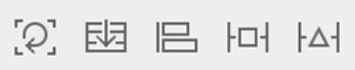
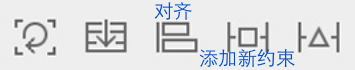
commit changes

Changed region(s): [[0.5577, 0.6857, 0.8366, 0.9714], [0.4338, 0.0286, 0.5577, 0.2857]]

diff --git a/source/_posts/2017/0721iOSProgrammingBNRG01.md b/source/_posts/2017/0721iOSProgrammingBNRG01.md
@@ -11,22 +11,36 @@ comments: true
 第一章实现该界面的问答功能，点击`Next Question`，显示一个新问题，点击`Show Answer`，显示该问题对应的答案。
 要点是：
 - 使用Interface Builder构建界面布局
+- 为控件关联代码变量和响应函数
 - 使用约束确保兼容不同的尺寸的设备
-- 为空间创建对应的变量，并为之关联消息响应函数。<!-- more -->
-
+- 修改app图标
+<!-- more -->
+---
 # 1 在story board上拖拽出界面
-注意在Main.storyboard上构造界面，别搞成LaunchScreen.storyboard了，后者是开机界面。
+注意在Main.storyboard上构造app主界面，别搞成LaunchScreen.storyboard了，后者是开机启动界面。
 
 ## 1.1 设定约束确保在不同的机型上布局一致
-与自动布局相关的按钮在Canvas的右下角：
+与自动布局相关的按钮在Canvas的右下角，本节涉及到第3、4个按钮，分别表示对齐和添加新的约束。
 ![自动布局相关按钮](0721iOSProgrammingBNRG01/img02.png)
-本节会涉及到第3、4个按钮，分别表示对齐和添加新的约束。
-对齐很容易理解：点击一个控件，再点击此按钮，勾选Horizontally in Container或Vertically in Container，可以让该控件在容器中水平或竖直方向居中
+点击对齐按钮展开如下面板:
 ![对齐按钮](0721iOSProgrammingBNRG01/img03.png)
-添加新约束：选择多个控件，把上下左右其中一条虚线点实，如果不填写具体值，则表示按照画布上的实际值摆放各空间之间的间隔；如果填写具体值，则表示让这些控件以该值作为行距。如果设置了Align，并选择Horizontal Center，表示被选中的每一个控件都与上方的一个保持居中对齐。
+前7个用于设置一个控件与另一个控件之间的相对关系，左/右对齐，上/下对齐，水平/竖直居中对齐，对于文本控件的Baselines对齐；
+后两个用于设置控件在所在容器中的相对位置，水平/竖直居中。
+<br>
+
+点击添加新约束按钮展开如下面板：
 ![约束按钮](0721iOSProgrammingBNRG01/img04.png)
-**其实约束条件最简单和直观的还是看左侧生成的Contraints等式：**
+Add New Constraints表示控件与邻近控件的间距；
+Width/Height用于设定控件长/宽；
+Equal Widths/Equal Heights/Aspect Ratio用于设定多个控件等宽/等高/等宽高比；
+如果设置了Align，并选择Horizontal Center，表示被选中的每一个控件都与上方的一个保持居中对齐。
+<font color='red'>这里的Align和前面的对齐是什么关系呢？</font>
+
+<br>
+
+约束条件最简单和直观也是最终极的依据是看左侧生成的Contraints等式：
 ![Contraints等式](0721iOSProgrammingBNRG01/img05.png)
+
 # 2 为Button关联响应函数
 ## 2.1 响应函数定义在哪？
 书中的图1.6给出了答案：
